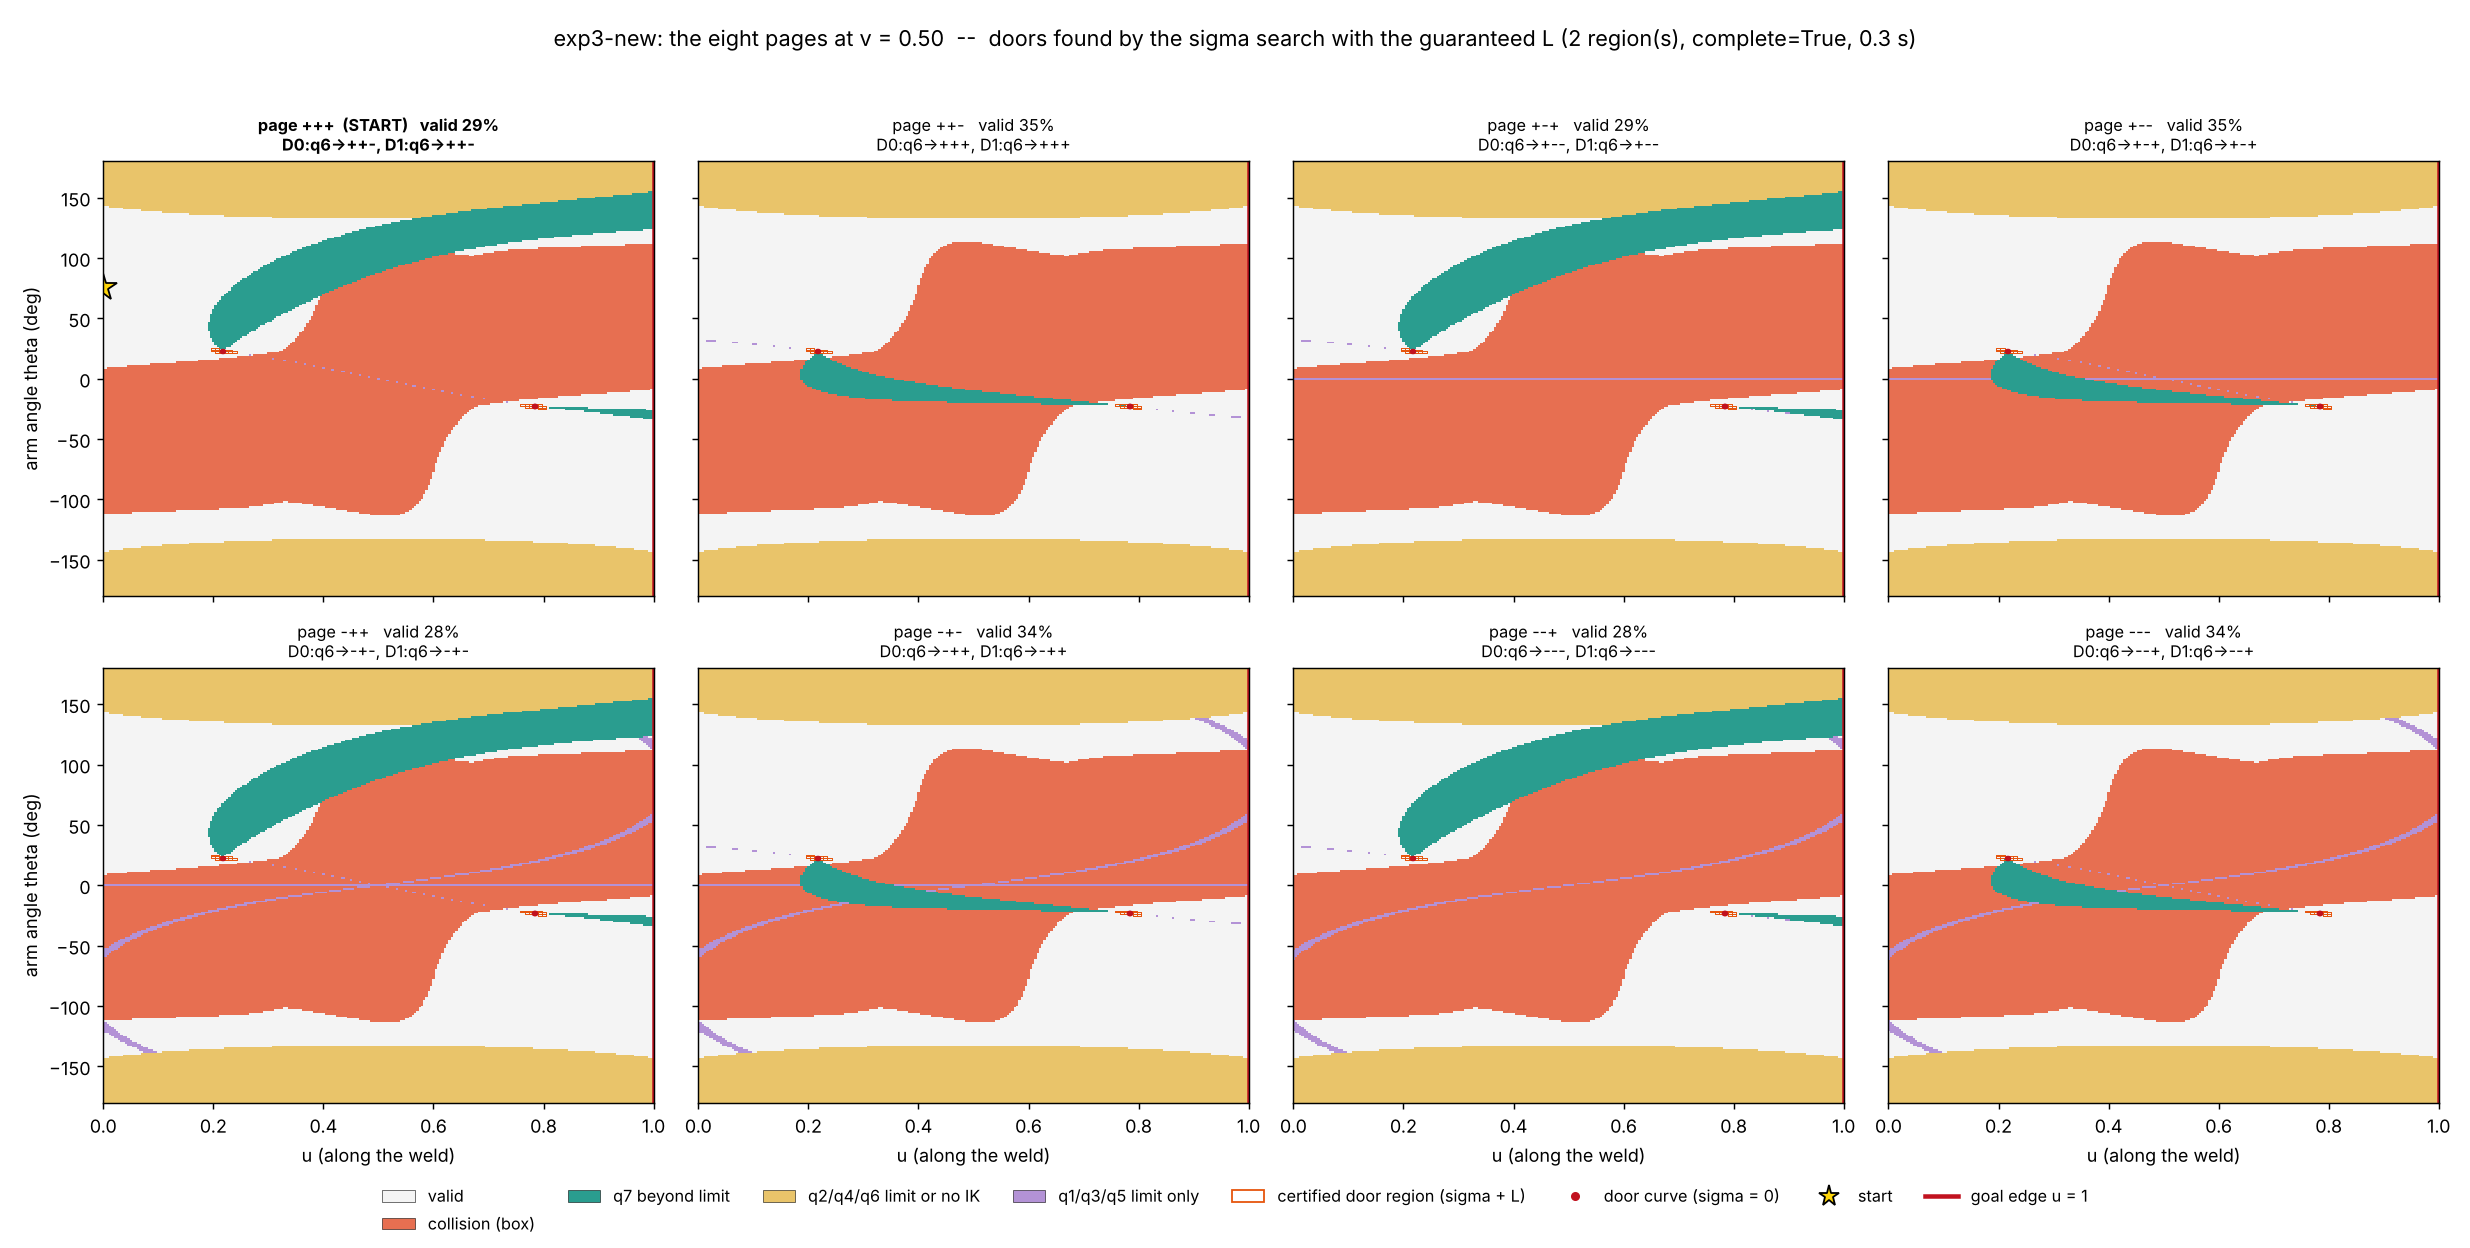
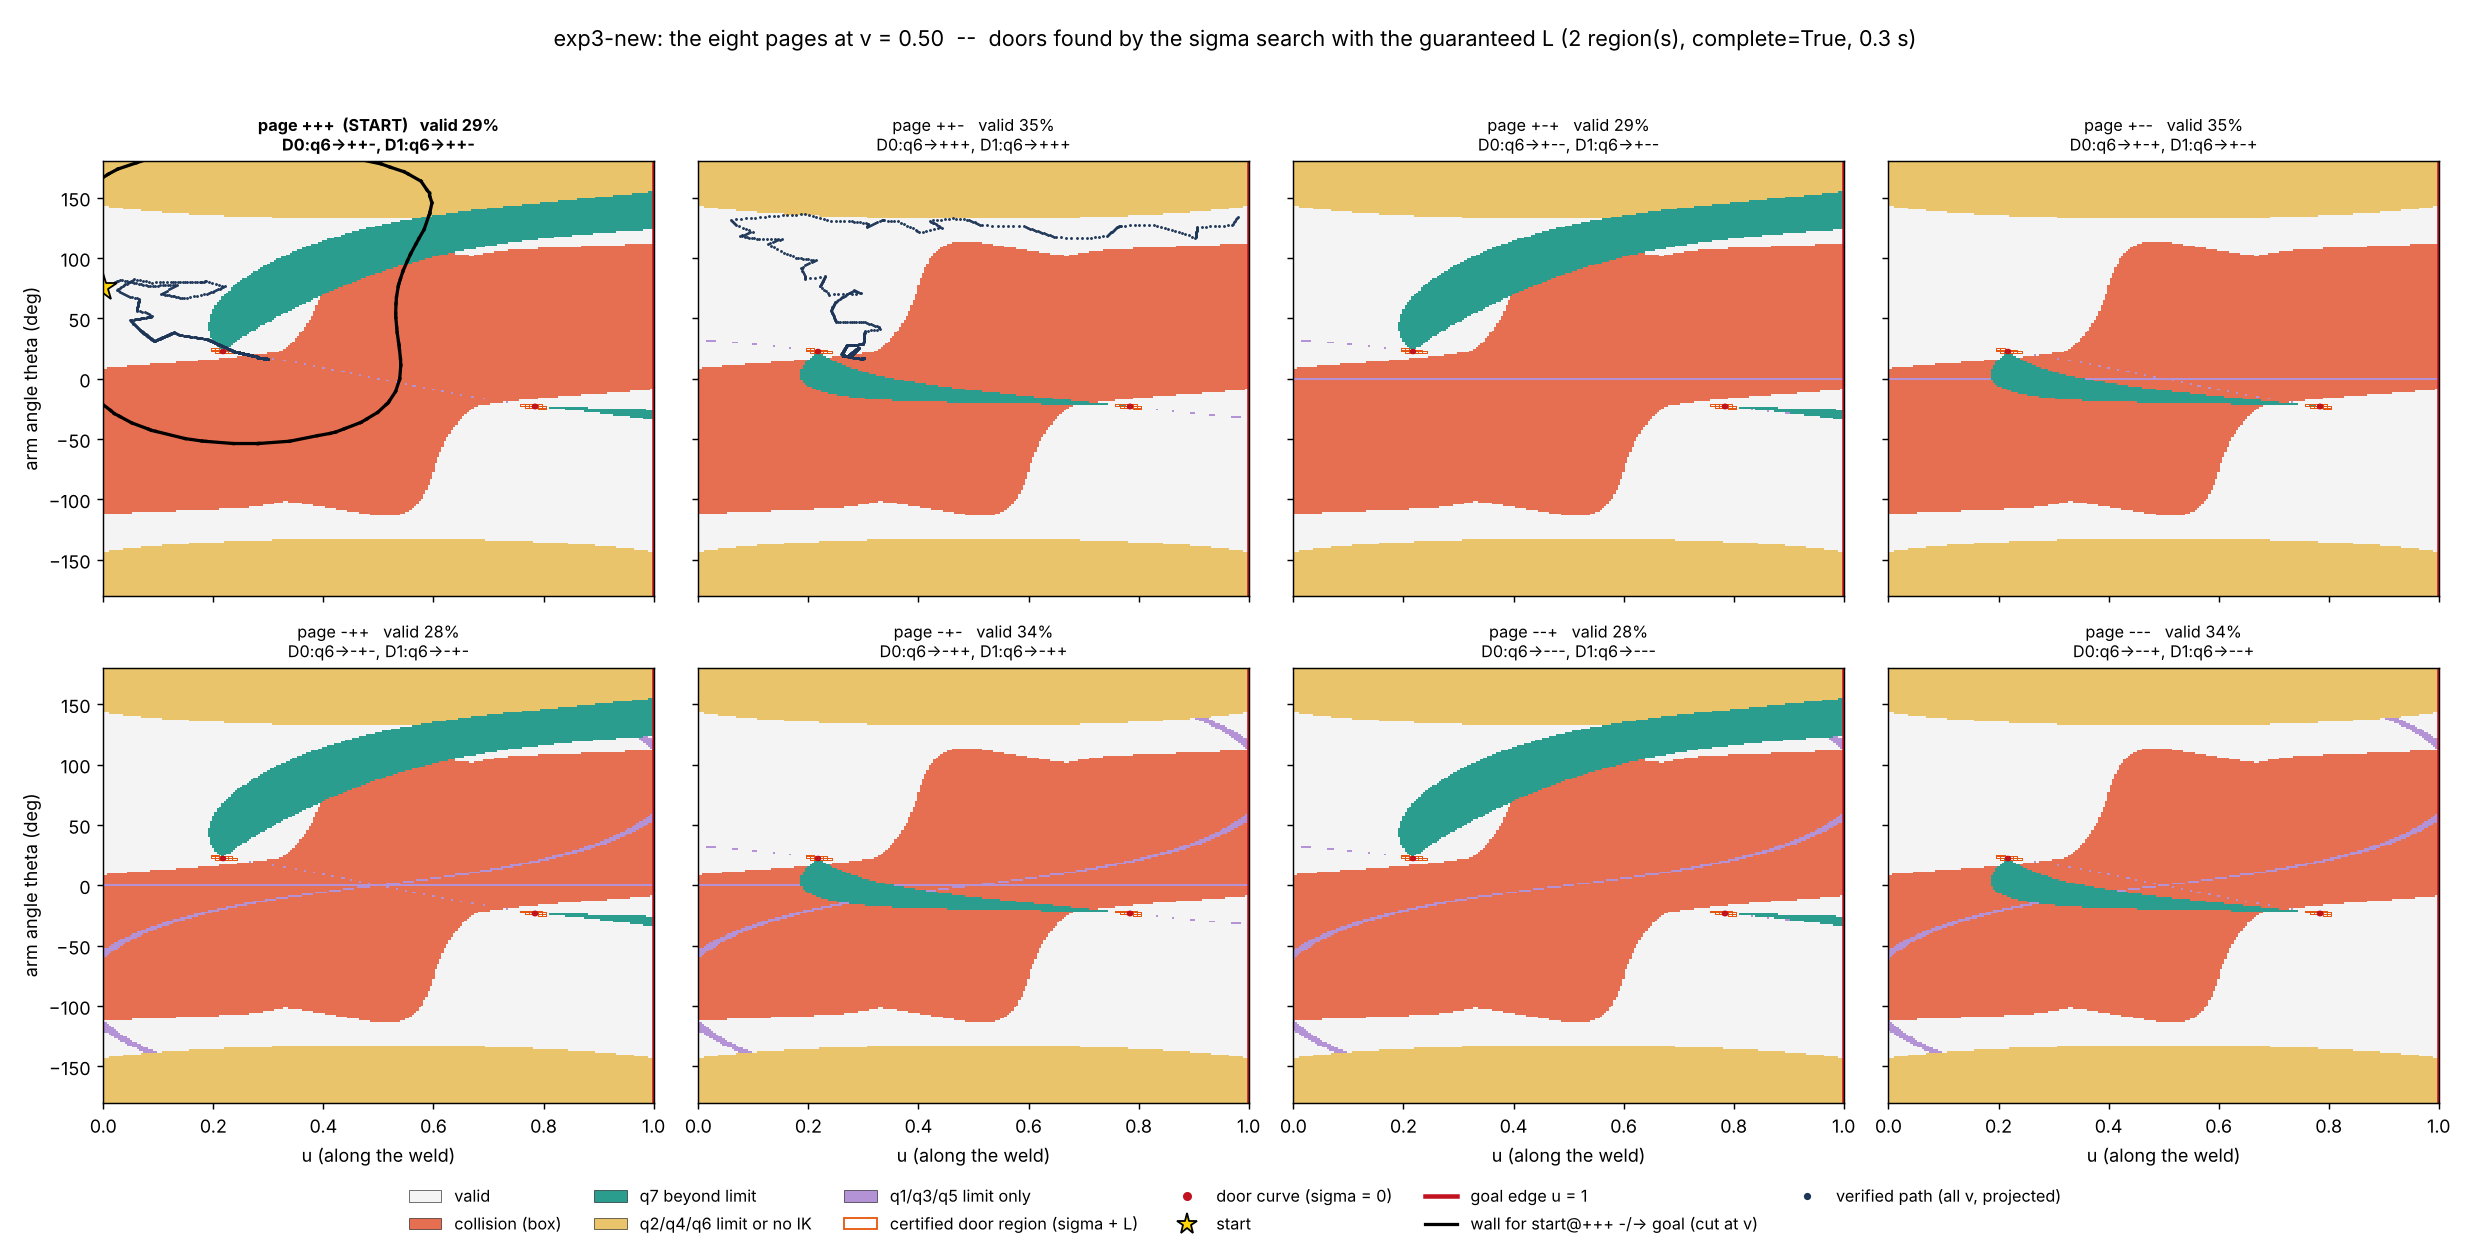
Eight-page maps with the verified walls: new EXP 3 and the two-page proof
Walls coloured by proof step, cut at v = 0.5, plus a 3-D view of every wall
with the sigma door curves and the verified path.

Claude-Session: https://claude.ai/code/session_01G8MAXewHc51no21vz9MN8m

Changed region(s): [[0.1559, 0.9375, 0.8417, 1.0], [0.0623, 0.3438, 0.1247, 0.375], [0.0312, 0.2188, 0.0935, 0.25]]

diff --git a/scripts/fig_eight_pages.py b/scripts/fig_eight_pages.py
@@ -54,6 +54,7 @@ COLORS = ["#f4f4f4", "#e76f51", "#2a9d8f", "#e9c46a", "#b392d6"]
 NAMES = ["valid", "collision (box)", "q7 beyond limit", "q2/q4/q6 limit or no IK",
          "q1/q3/q5 limit only"]
 FLIP = {"q2": 0, "q4": 1, "q6": 2}
+WALL_COLORS = ["#000000", "#1d4ed8", "#be185d"]
 
 
 def page_name(sg) -> str:
@@ -139,6 +140,7 @@ def main() -> None:
         walls = g["walls"]
         if g.get("path_q") is not None:
             path = path_page_coords(arm, surf, g["path_q"])
+    nodes = list(dict.fromkeys(w["node"] for w in walls))
     U, T = np.meshgrid(np.linspace(0, 1, args.grid), np.linspace(-np.pi, np.pi, args.grid))
     fig, axs = plt.subplots(2, 4, figsize=(19, 9.6), sharex=True, sharey=True)
     cmap = ListedColormap(COLORS)
@@ -165,8 +167,9 @@ def main() -> None:
         for w in walls:
             if w["page"] != page_name(sg):
                 continue
+            col = WALL_COLORS[nodes.index(w["node"]) % len(WALL_COLORS)]
             for a, b in slice_mesh(w["vertices"], w["simplices"], v0):
-                ax.plot([a[0], b[0]], np.degrees([a[2], b[2]]), "-", c="k", lw=1.6)
+                ax.plot([a[0], b[0]], np.degrees([a[2], b[2]]), "-", c=col, lw=1.8)
         if path is not None:
             on = path["page"] == page_name(sg)
             if on.any():
@@ -189,12 +192,13 @@ def main() -> None:
                 plt.Line2D([], [], ls="", marker=".", c="#c1121f", ms=8, label="door curve (sigma = 0)"),
                 plt.Line2D([], [], ls="", marker="*", mfc="#ffd60a", mec="k", ms=12, label="start"),
                 plt.Line2D([], [], c="#c1121f", lw=2.5, label="goal edge u = 1")]
-    if walls:
-        handles.append(plt.Line2D([], [], c="k", lw=1.6, label="verified wall (cut at v)"))
+    for k, nd in enumerate(nodes):
+        handles.append(plt.Line2D([], [], c=WALL_COLORS[k % len(WALL_COLORS)], lw=1.8,
+                                  label=f"wall for {nd} (cut at v)"))
     if path is not None:
         handles.append(plt.Line2D([], [], ls="", marker=".", c="#1d3557", ms=6,
                                   label="verified path (all v, projected)"))
-    fig.legend(handles=handles, loc="lower center", ncol=8, fontsize=9, frameon=False)
+    fig.legend(handles=handles, loc="lower center", ncol=6, fontsize=9, frameon=False)
     fig.suptitle(f"{args.case}: the eight pages at v = {v0:.2f}  --  doors found by the sigma "
                  f"search with the guaranteed L ({len(ds.doors)} region(s), complete="
                  f"{ds.complete}, {t_doors:.1f} s)", fontsize=12)
